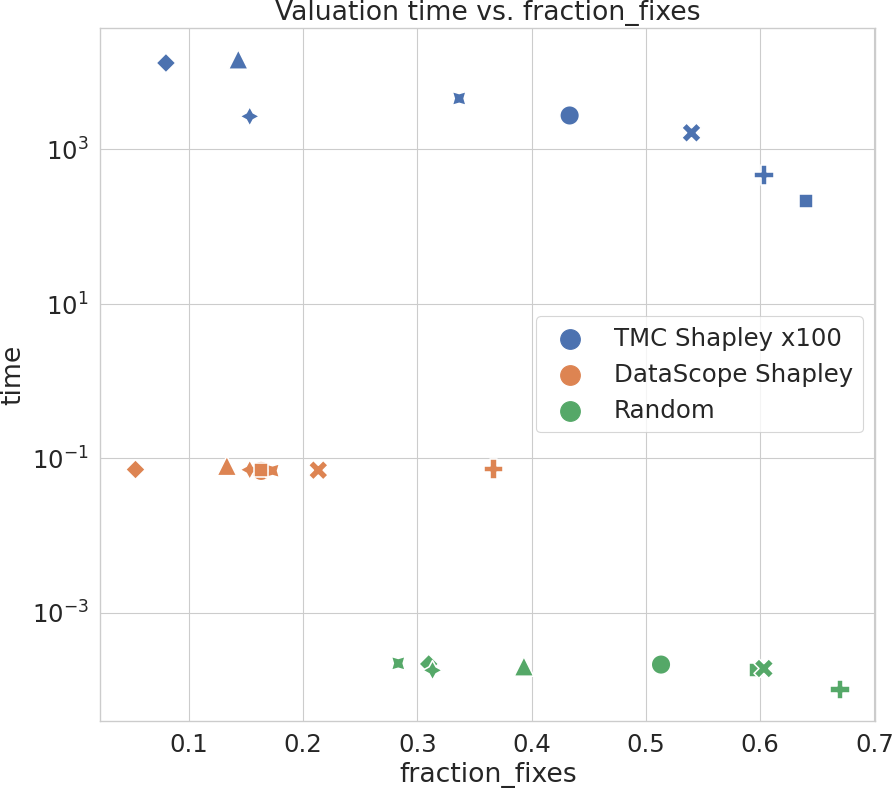
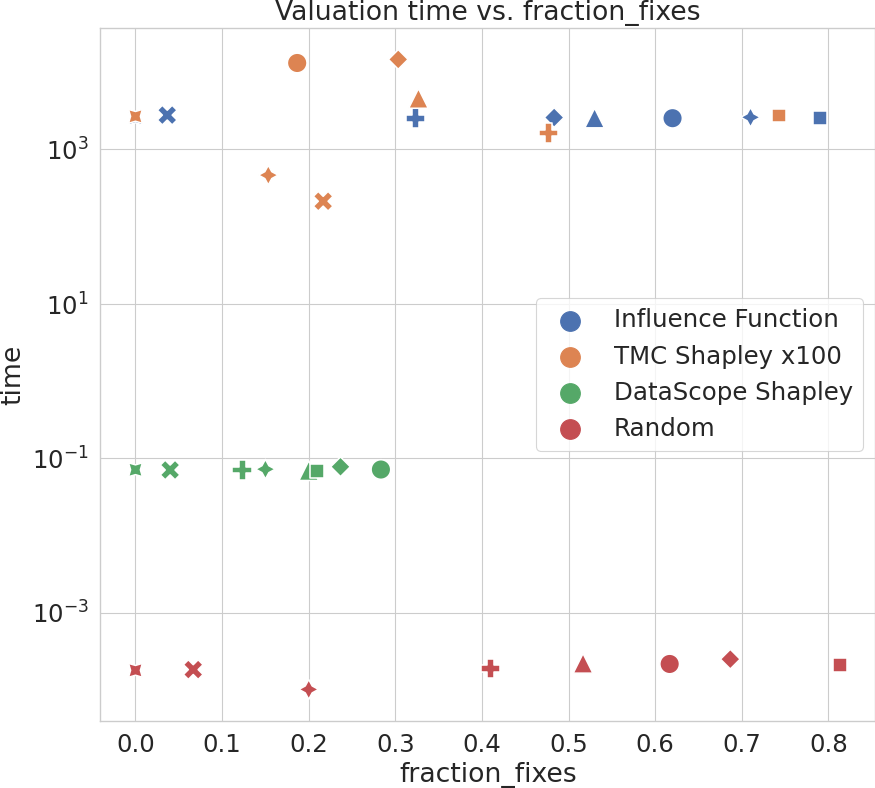
default to logistic reg & update figures with influence function

diff --git a/classifier.py b/classifier.py
@@ -1,9 +1,13 @@
+from loguru import logger
 import numpy as np
 from pyarrow import parquet as pq
+import sklearn
 import torch
 import xgboost
 import torch.nn as nn
 from torch.utils.data import TensorDataset, DataLoader
+from sklearn.linear_model import LogisticRegressionCV
+
 
 class XGBClassifier():
     def __init__(self):
@@ -14,20 +18,20 @@ class XGBClassifier():
 
     def fit(self, features, labels):
         self.xgb.fit(features, labels)
-    
+
     def predict(self, feature):
         return self.xgb.predict(feature)
 
     def evaluate(self, test_features, test_labels):
         test_labels = test_labels.ravel()
         pred = self.predict(test_features)
-        accuracy = (pred == test_labels).mean() 
+        accuracy = (pred == test_labels).mean()
         return round(accuracy, 2)
 
 class LinearModel(nn.Module):
     def __init__(self):
         super(LinearModel, self).__init__()
-        
+
         # First fully connected layer
         self.fc1 = nn.Linear(2048, 128)
         self.fc2 = nn.Linear(128, 1)
@@ -37,53 +41,82 @@ class LinearModel(nn.Module):
         x = self.fc2(x)
         return x
 
-class LinearClassifier():
+class LogisticClassifier():
     def __init__(self):
         torch.manual_seed(42)
         self.model = LinearModel()
-    
-    def fit(self, features, labels, epochs=50, lr=0.01, batch_size=8):
+        self.threshold = 0.5
+
+    def fit(self, features, labels, epochs=20, lr=0.01, batch_size=64, weight_decay=0.9):
         features = torch.tensor(features)
         labels = torch.tensor(labels)
         dataset = TensorDataset(features, labels)
         dataloader = DataLoader(dataset, batch_size=batch_size, shuffle=False)
         criterion = nn.BCEWithLogitsLoss()
-        optimizer = torch.optim.Adam(self.model.parameters(), lr=lr, weight_decay=0.9)
+        optimizer = torch.optim.AdamW(
+            self.model.parameters(), lr=lr, weight_decay=weight_decay)
         self.model.train(True)
         for epoch in range(epochs):
             for x, y in dataloader:
+                optimizer.zero_grad()
                 y_pred = self.model(x.float())
+                y_pred = y_pred.reshape(y.shape)
                 loss = criterion(y_pred, y.float())
                 loss.backward()
                 optimizer.step()
-                optimizer.zero_grad()
+            # print(list(self.model.parameters()))
+        # adjust the threshold, on the training set
+        cand_thres = list(np.arange(0.1, 1, 0.05))
+        # find highest accuracy
+        best_acc = 0
+        best_thres = 0
+        for thres in cand_thres:
+            self.threshold = thres
+            accuracy = self.evaluate(features, labels)
+            if accuracy > best_acc:
+                best_acc = accuracy
+                best_thres = thres
+        self.threshold = best_thres
 
     def predict(self, feature):
         self.model.eval()
-        feature = torch.tensor(feature)
+        if not isinstance(feature, torch.Tensor):
+            feature = torch.tensor(feature).float()
         with torch.no_grad():
             output = self.model(feature)
+            output = torch.sigmoid(output)
+        output = np.where(output <= self.threshold, 0, output)
+        output = np.where(output > self.threshold, 1, output)
+        output = output.ravel()
         return output
 
     def evaluate(self, test_features, test_labels):
         test_labels = test_labels.ravel()
+        if isinstance(test_labels, torch.Tensor):
+            test_labels = test_labels.numpy()
         pred = self.predict(test_features)
-        pred = torch.sigmoid(pred)
-        pred = np.where(pred <= 0.5, 0, pred)
-        pred = np.where(pred > 0.5, 1, pred)
         accuracy = (pred == test_labels).mean()
         return round(accuracy, 2)
 
-if __name__=="__main__":
-    train = pq.read_table("embeddings/09j2d_train_0.3_300.parquet")
-    test = pq.read_table("embeddings/09j2d_test_500.parquet")
-    train_X, train_y = np.vstack(train.column("encoding").to_numpy()), np.vstack(train.column("label").to_numpy())
-    test_X, test_y = np.vstack(test.column("encoding").to_numpy()), np.vstack(test.column("label").to_numpy())
-    clf = XGBClassifier()
-    clf.fit(train_X, train_y)
-    linear_clf = LinearClassifier()
+
+if __name__ == "__main__":
+    train = pq.read_table("embeddings/09j2d_test_500.parquet")
+    test = pq.read_table("embeddings/09j2d_val_100.parquet")
+    train_X, train_y = np.vstack(train.column("encoding").to_numpy()), np.vstack(
+        train.column("label").to_numpy())
+    test_X, test_y = np.vstack(test.column("encoding").to_numpy()), np.vstack(
+        test.column("label").to_numpy())
+    # clf = XGBClassifier()
+    # clf.fit(train_X, train_y)
+    # xgboost_acc = clf.evaluate(test_X, test_y)
+    # print("XGBoost Classifier Accuracy: {}".format(xgboost_acc))
+    test_X = torch.tensor(test_X)
+    test_y = torch.tensor(test_y)
+    linear_clf = LogisticClassifier()
     linear_clf.fit(train_X, train_y)
     linear_acc = linear_clf.evaluate(test_X, test_y)
-    xgboost_acc = clf.evaluate(test_X, test_y)
-    print("Linear Classifier Accuracy: {}".format(linear_acc))
-    print("XGBoost Classifier Accuracy: {}".format(xgboost_acc))
+    print("Logistic Classifier Accuracy: {}".format(linear_acc))
+    # sklearn_clf = LogisticRegressionCV()
+    # sklearn_clf.fit(train_X, train_y)
+    # sklearn_acc = sklearn_clf.score(test_X, test_y)
+    # print("Sklearn Classifier Accuracy: {}".format(sklearn_acc))

diff --git a/plotter.py b/plotter.py
@@ -40,10 +40,6 @@ def plot(evaluation_file, result_folder):
     ax.set_title(f"Cleaning on {data_id}")
     plt.axhline(before_acc, linestyle='--', label='Before Correction', lw=2, color='black')
 
-    """
-    Add score to the legend
-    """
-    
     known_method = set(data['method'])
 
     handles, labels = ax.get_legend_handles_labels()
@@ -51,18 +47,17 @@ def plot(evaluation_file, result_folder):
     methods = set(data['method'].tolist())
     
     for idx, label in enumerate(labels):
-        if label=='mc_shapley':
-            labels[idx] = 'TMC Shapley x100'
-        elif label == 'neighbor_shapley (datascope)':
-            labels[idx] = 'DataScope Shapley'
-        elif label == 'random':
-            labels[idx] = 'Random'
-    
-    for idx, label in enumerate(labels):
         if label in known_method:
             score = results['auc_score'][label]
-            labels[idx] = f"{label} (score={score['fraction_fixes']:.4f})"
-    # plt.legend(handles = handles, labels = labels)
+            score = score['fraction_fixes']
+            if label=='mc_shapley':
+                labels[idx] = f"TMC Shapley x100 (score={score:.4f})"
+            elif label == 'neighbor_shapley (datascope)':
+                labels[idx] = f"DataScope Shapley (score={score:.4f})"
+            elif label == 'random':
+                labels[idx] = f"Random (score={score:.4f})"
+            elif label =='influence_function':
+                labels[idx] = f"Influence Function (score={score:.4f})"
     
     leg = ax.legend(handles=handles, labels=labels)
     for line in leg.get_lines():

diff --git a/baselines/ptif/calc_influence_function.py b/baselines/ptif/calc_influence_function.py
@@ -6,7 +6,7 @@ import datetime
 import numpy as np
 import copy
 import logging
-
+from tqdm import tqdm
 from pathlib import Path
 from baselines.ptif.influence_function import s_test, grad_z
 from baselines.ptif.utils import save_json, display_progress
@@ -253,7 +253,7 @@ def calc_influence_function(train_dataset_size, grad_z_vecs=None,
         train_dataset_size = len(grad_z_vecs)
 
     influences = []
-    for i in range(train_dataset_size):
+    for i in tqdm(range(train_dataset_size)):
         tmp_influence = -sum(
             [
                 ###################################
@@ -318,7 +318,7 @@ def calc_influence_single(model, train_loader, test_loader, test_id_num, gpu,
     # Calculate the influence function
     train_dataset_size = len(train_loader.dataset)
     influences = []
-    for i in range(train_dataset_size):
+    for i in tqdm(range(train_dataset_size)):
         z, t = train_loader.dataset[i]
         z = train_loader.collate_fn([z])
         t = train_loader.collate_fn([t])
@@ -458,7 +458,7 @@ def calc_img_wise(config, model, train_loader, test_loader):
     influences = {}
     # Main loop for calculating the influence function one test sample per
     # iteration.
-    for j in range(test_dataset_iter_len):
+    for j in tqdm(range(test_dataset_iter_len)):
         # If we calculate evenly per class, choose the test img indicies
         # from the sample_list instead
         if test_sample_num and test_start_index:

diff --git a/main.py b/main.py
@@ -2,7 +2,7 @@ import json
 import os
 from utils import fix
 from pyarrow import parquet as pq
-from classifier import XGBClassifier as Classifier
+from classifier import LogisticClassifier as Classifier
 import numpy as np
 from tqdm import tqdm
 import pandas as pd
@@ -12,8 +12,7 @@ import sys
 from utils import calc_auc_from_submission
 
 
-def run_correction_eval(
-):
+def run_correction_eval():
     is_docker = False
     if len(sys.argv) > 1 and sys.argv[1] == "docker":
         is_docker = True
@@ -74,7 +73,9 @@ def run_correction_eval(
                     proposed_fixes[:i], train_file, i, gt_df)
                 new_train_X, new_train_y = np.vstack(new_train_set.column(
                     "encoding").to_numpy()), np.vstack(new_train_set.column("label").to_numpy())
-
+                new_train_X = new_train_X.astype(np.float32)
+                new_train_y = new_train_y.astype(np.float32)
+                
                 # re-initialise and re-fit the classifier
                 new_clf = Classifier()
                 new_clf.fit(new_train_X, new_train_y)

diff --git a/plotter_speed.py b/plotter_speed.py
@@ -58,6 +58,7 @@ def plot(data, result_folder, score_metric='auc'):
     handles, labels = handles[1:1+len(methods)], labels[1:1+len(methods)]
     for h in handles:
         h.set_sizes([200])
+    
     for idx, label in enumerate(labels):
         if label=='mc_shapley':
             labels[idx] = 'TMC Shapley x100'
@@ -65,7 +66,9 @@ def plot(data, result_folder, score_metric='auc'):
             labels[idx] = 'DataScope Shapley'
         elif label == 'random':
             labels[idx] = 'Random'
-    
+        elif label == 'influence_function':
+            labels[idx] = 'Influence Function'
+    print(labels)
     plt.legend(markerscale=1.3)
     leg = ax.legend(handles=handles, labels=labels)
     figure_path = os.path.join(result_folder, f"{score_metric}_speed.png")

diff --git a/baselines/influence_function.py b/baselines/influence_function.py
@@ -1,6 +1,6 @@
 import torch
 from appraiser import Appraiser
-from classifier import LinearClassifier as Classifier
+from classifier import LogisticClassifier as Classifier
 from baselines.ptif.calc_influence_function import calc_img_wise
 from torch.utils.data import TensorDataset, DataLoader
 import numpy as np
@@ -29,8 +29,8 @@ class InfluenceFunctionAppraiser(Appraiser):
             'num_classes': 2,
             'test_sample_num': 40,
             'test_start_index': 0,
-            'recursion_depth': 1,
-            'r_averaging': 30,
+            'recursion_depth': 200,
+            'r_averaging': 50,
             'scale': None,
             'damp': None,
             'calc_method': 'img_wise',

diff --git a/utils.py b/utils.py
@@ -29,8 +29,6 @@ def calc_auc_from_submission(submissions, ratio_cleaned=0.95):
         logger.info(f"Scoring for submission {method}...")
         x = np.array([x['fixes'] for x in submission])
         y = np.array([x['accuracy'] for x in submission])
-        auc_score = metrics.auc(x, y)
-        scores[method]['auc'] = auc_score/len(x)
         """
         Here calculate the number of fixes that could achieve ratio_cleaned * accuracy (achieved on cleaned dataset)
         """

diff --git a/baselines/datascope_wrapper.py b/baselines/datascope_wrapper.py
@@ -3,7 +3,7 @@ from sklearn import pipeline
 from datascope.importance.common import SklearnModelAccuracy
 from datascope.importance.shapley import ShapleyImportance, ImportanceMethod
 from appraiser import Appraiser
-from classifier import XGBClassifier as Classifier
+from classifier import LogisticClassifier as Classifier
 
 utility_pipeline = pipeline.make_pipeline(
     Classifier()

diff --git a/baselines/ptif/influence_function.py b/baselines/ptif/influence_function.py
@@ -3,7 +3,7 @@
 import torch
 from torch.autograd import grad
 from baselines.ptif.utils import display_progress
-
+from tqdm import tqdm
 
 def s_test(z_test, t_test, model, z_loader, gpu=-1, damp=0.01, scale=25.0,
            recursion_depth=5000):
